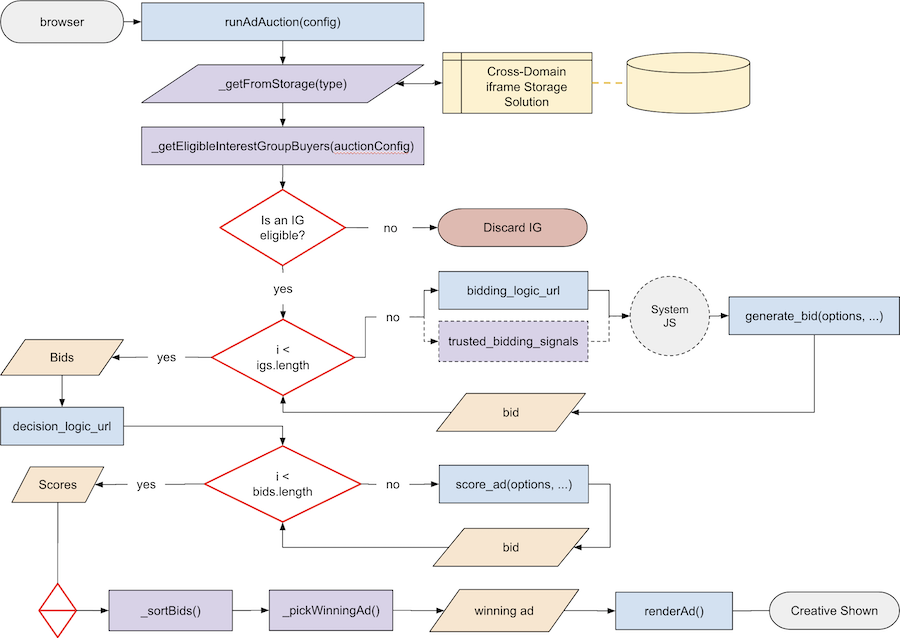
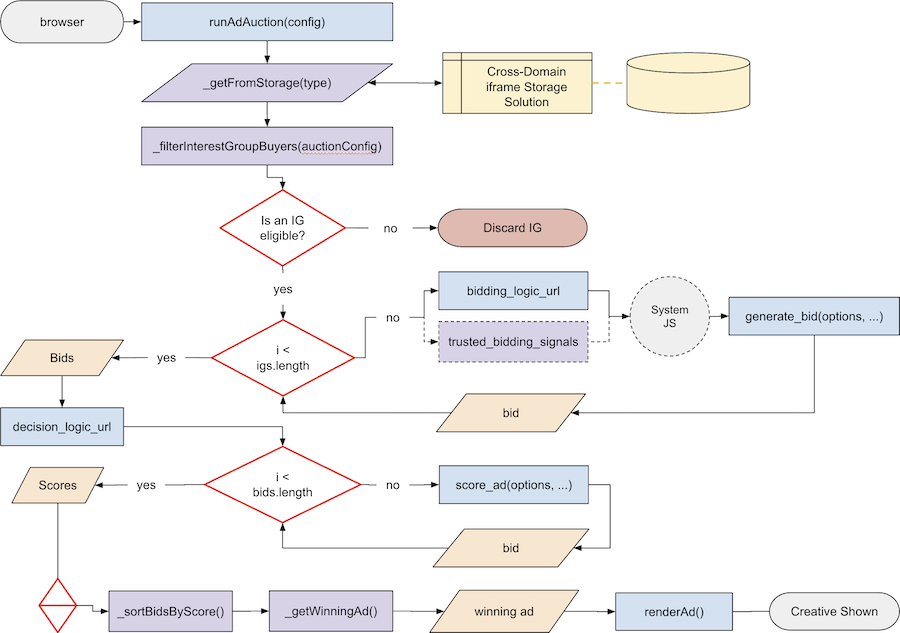
chore(spec): update Auction with initial work

diff --git a/specifications/auctions.md b/specifications/auctions.md
@@ -9,7 +9,7 @@ An auction done entirely within a browser worklet with no network access, which 
 
 ## How will they be stored?
 
-The same mechanism being created for storing Interest Groups will be used to process the auction, including the scoring of all ads/bids that are sent into the auction by buyers.  [See the current discussion on storage types]((https://github.com/MagniteEngineering/fledge.polyfill/discussions/7).
+The same mechanism being created for storing Interest Groups will be used to process the auction, including the scoring of all ads/bids that are sent into the auction by buyers.  [See the current discussion on storage types](https://github.com/MagniteEngineering/fledge.polyfill/discussions/7).
 
 ### Model
 
@@ -21,6 +21,7 @@ The following is the storage model and will be later referred in the document as
     "<adslot_id>": {
       "seller": "<options.seller>",
       "decision_logic_url": "<options.decision_logic_url>",
+      "trusted_scoring_signals_url": "<options.trusted_scoring_signals_url>",
       "interest_group_buyers": "<options.interest_group_buyers.keys()>",
       "additional_bids": "<options.additional_bids>"
       "auction_signals": "<options.auction_signals>",
@@ -39,15 +40,18 @@ Any type that is suffixed with a `?` is meant to signify that its an optional pa
 
 * **seller**: _String<URL\>_ (e.g. `"www.dsp.com"`)
 * **decision_logic_url**: _String<URL\>_ (e.g. `"dsp.com/nike/bid.js"`)
+* **trusted_scoring_signals_url**: _String<URL\>_ (e.g.  `"dsp.com/scoring-signals"`)
 * **interest_group_buyers**: _Array<URL > | *_ (e.g. `[ "www.tradedesk.com", "nike.com" ]`)
 * **additional_bids?**: _Array_
 * **auction_signals?**: _Object_
 * **seller_signals?**: _Object_
 * **per_buyer_signals?**: _Object_
 
-#### Assumptions
+### Assumptions
 
-?
+* While the proposal states that rendering of the winning ad will happen in an Fenced Frame, we will have to render it in a traditional `iframe`
+* The `browser_signals` provided to the `score_ad()` function will be provided by us with our best guess as to what the final object may resemble, but consumers are warned not to rely on the signals coming from that too much as it is highly subject to change
+* The final proposal will be much more secure that what is possible by doing everything within a Cross-Domain Sharing storage solution
 
 ## Methods
 
@@ -65,9 +69,9 @@ When a "user" lands on a "seller's" page, this API method will allow them run an
 2. If required fields are missing from `<AuctionConfig>`, return with an `Error` stating a generic message such as "missing fields"
 3. If, at some time we do handle permissions, then in the event there is missing permissions, the return should be an `Error` describing the reason.
 
-#### return
+#### Return
 
-* If successful and contains a winning bid, return a `<Promise>`.  While the proposal with maintain this is `opaque`, within our trials we won't support that feature as we won't have any way to do so.
+* If successful and contains a winning bid, return a `<Promise>`.  While the proposal will maintain this is `opaque`, within our trials we won't support that feature as we won't have any way to do so.
 * If successful and does not contain a winning bid, return a `null`
 * If failure, return `Error(<reason>)`
 
@@ -75,10 +79,11 @@ When a "user" lands on a "seller's" page, this API method will allow them run an
 
 Using the [flow diagram](#auction-flow-diagram) as a guide, the following internal functions will be created in order to support joining an interest group:
 
-1. [InterestGroups.getInterestGroup](#_getinterestgroup28owner26ltstring26gt-name26ltstring26gt2)
-2. [_generateBid](#)
-3. [_scoreBid](#)
-4. [_sortBids](#)
+1. [_getFromStorage](#_getfromstorage28type26ltstring26gt29)
+2. [_filterInterestGroupBuyers](#_filterinterestgroupbuyers28auctionconfig26ltauctionconfig26gt29)
+3. [_filterBidsByScore](#_filterbidsbyscore28bids26lt5Bbid5D26gt29)
+4. [_sortBidsByScore](#_sortbidsbyscore28bids26lt5Bbid5D26gt29)
+5. [_getWinningBid](#_getwinningbid28bids26lt5Bbid5D26gt29)
 
 ## `decision_logic_url`
 
@@ -86,9 +91,34 @@ This is a URL string that is provided in the [`<AuctionConfig>` options `Object`
 
 An example: `"ssp.com/espn/auction.js"`
 
-### `score_ad()`
+### `score_ad(ad_metadata<Object>, bid<Number>, auction_config<AuctionConfig>, trusted_scoring_signals, browser_signals<Object>)`
+
+The scoring function that will be provided by the `decision_logic_url` from the seller that will process each eligible bid in order to provide a numerical score, some metadata and a URL to render the creative.
+
+* **ad_metadata**: this comes from each bid; specifically the `ad` key in the return value of each `generate_bid()` function.
+* **bid**: this comes from each bid; specifically the `bid` key in the return value of each `generate_bid()` function.
+* **auction_config**: this is provided by the auction; it is the configuration that is provided by the auction when initially called
+* **trusted_scoring_signals**: this is provided by the auction configuration with the base URL being the `trusted_scoring_signals_url` key and the return value of each `generate_bid()` functions `render_url` key (e.g. `kv-server.com?hostname=<interest_group.owner>&keys=<render_url>`)
+* **browser_signals**: this is provided by the browser, but in this case, it will be arbitrary information we provide, explaining to consumers not to rely too heavily on the information provided
+
+#### Validation
+
+All fields are required and provided to the function when called in the context of the Cross-Domain storage solution.
+
+#### Return
+
+* A numerical value of greater than 0, indicates an eligible bid
+* A numerical value of less than or equal to 0, indicates an ineligible bid
 
 _Note: `report_result()` and are detailed in other specifications._
+
+### `renderAd(bid<Bid>)`
+
+The function designed to create an `iframe` on the sellers page that will render the ads creative for the winning bid.
+
+### `generate_bid()`
+
+This will be detailed in another specification.
 
 ## Internal Functions
 
